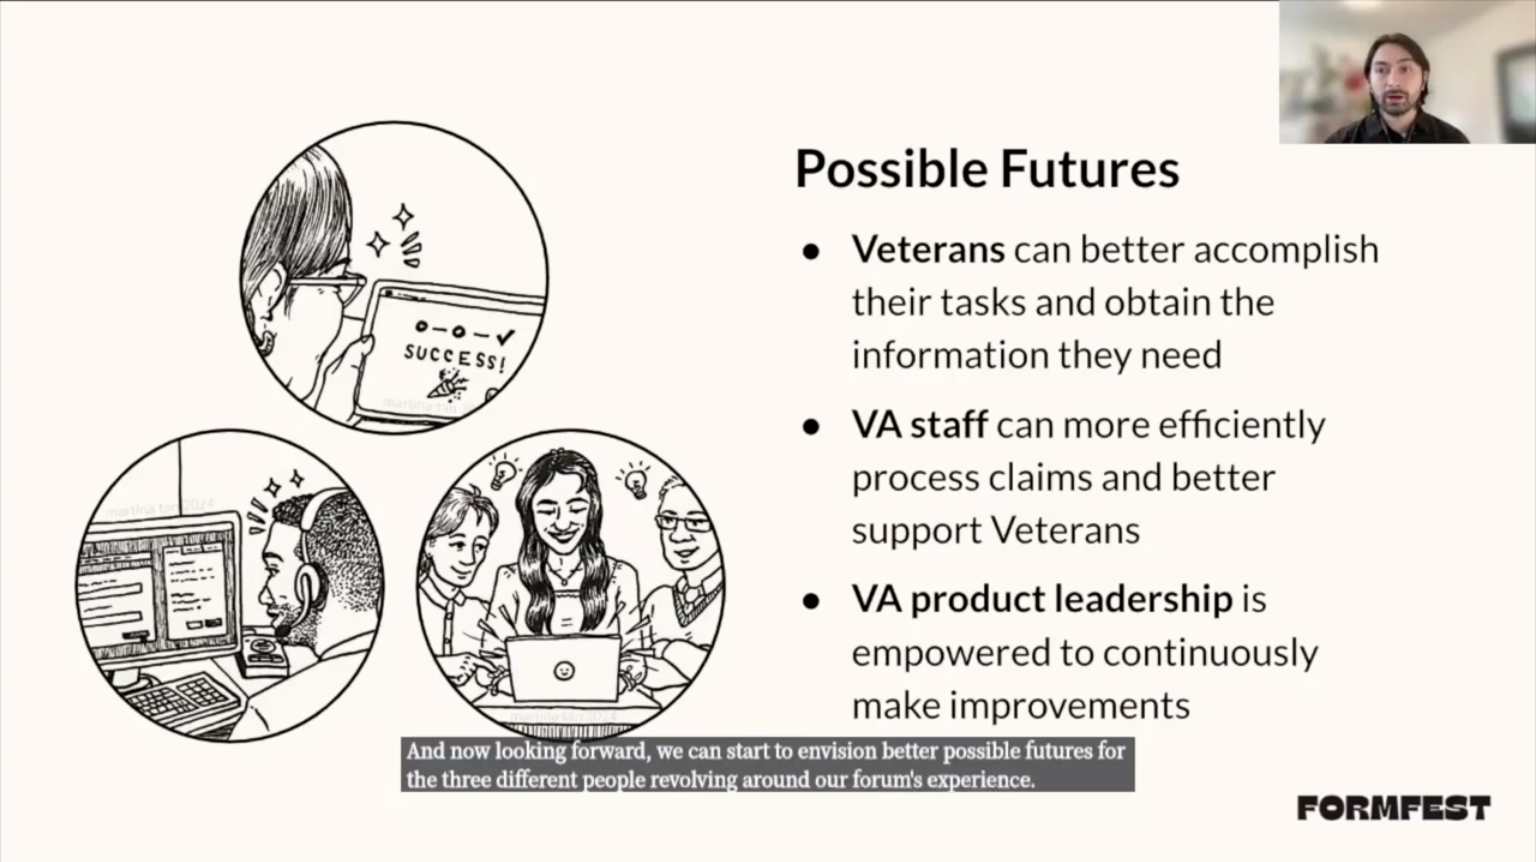
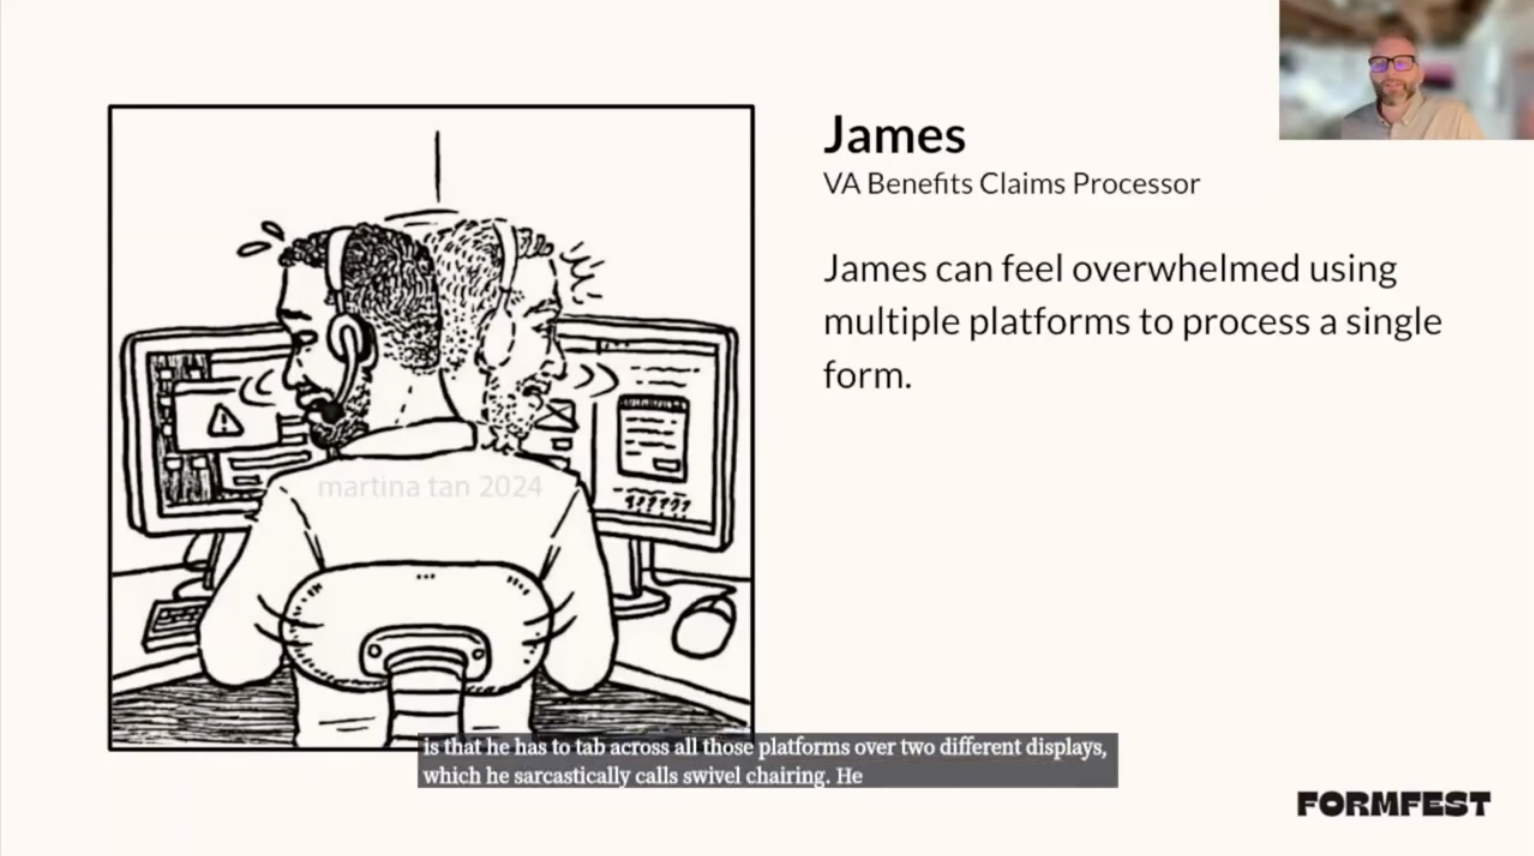
Update images for Illustration section

diff --git a/other/index.html b/other/index.html
@@ -42,7 +42,12 @@ title: Martina Tan - other work
                     </div>
                     <div class="figure-wrap">
                         <figure>
-                            <img src="/assets/images/FormFestIllustrationScreencap2.png" alt="Slide titled 'Possible futures' shows hand-drawn illustrations of three personas representing the three personas happy with their improved service experience"/>
+                            <img src="/assets/images/FormFestIllustrationScreencap2.png" alt="Slide titled 'James - VA Benefits Claims Processor' shows illustrations of a Black man in an office chair frantically looking between two monitors with error messages"/>
+                        </figure>
+                    </div>
+                    <div class="figure-wrap">
+                        <figure>
+                            <img src="/assets/images/FormFestIllustrationScreencap3.png" alt="Slide titled 'Possible futures' shows illustrations of three personas representing the three personas happy with their improved service experience"/>
                         </figure>
                     </div>
                 </div>
